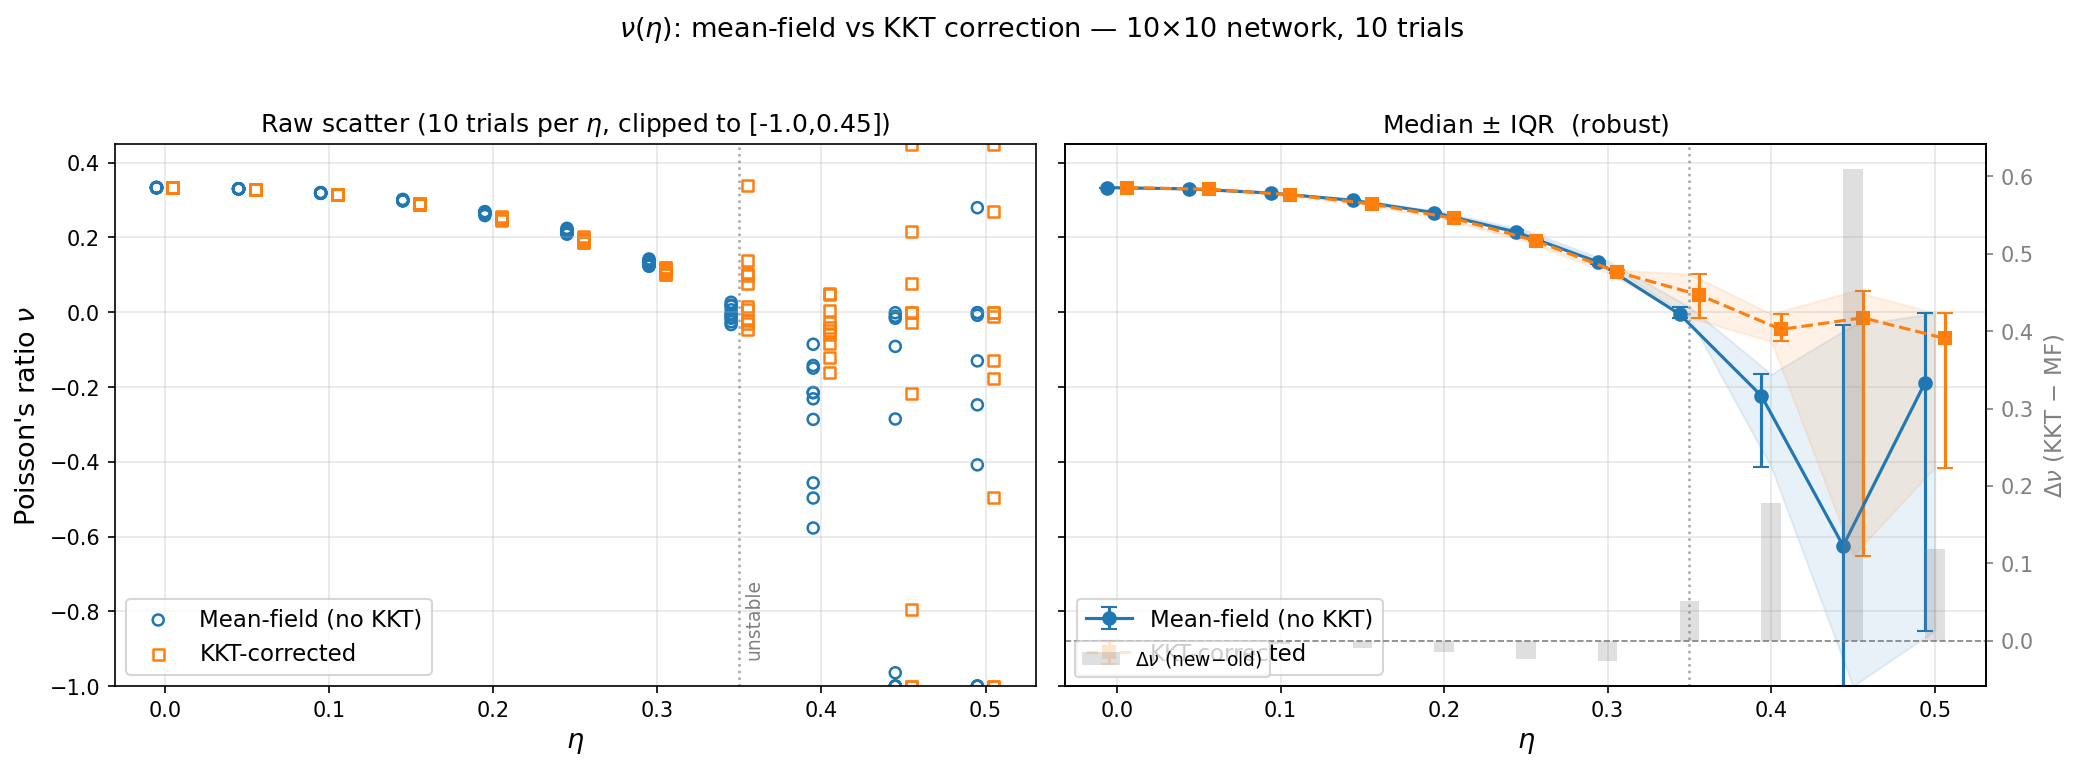
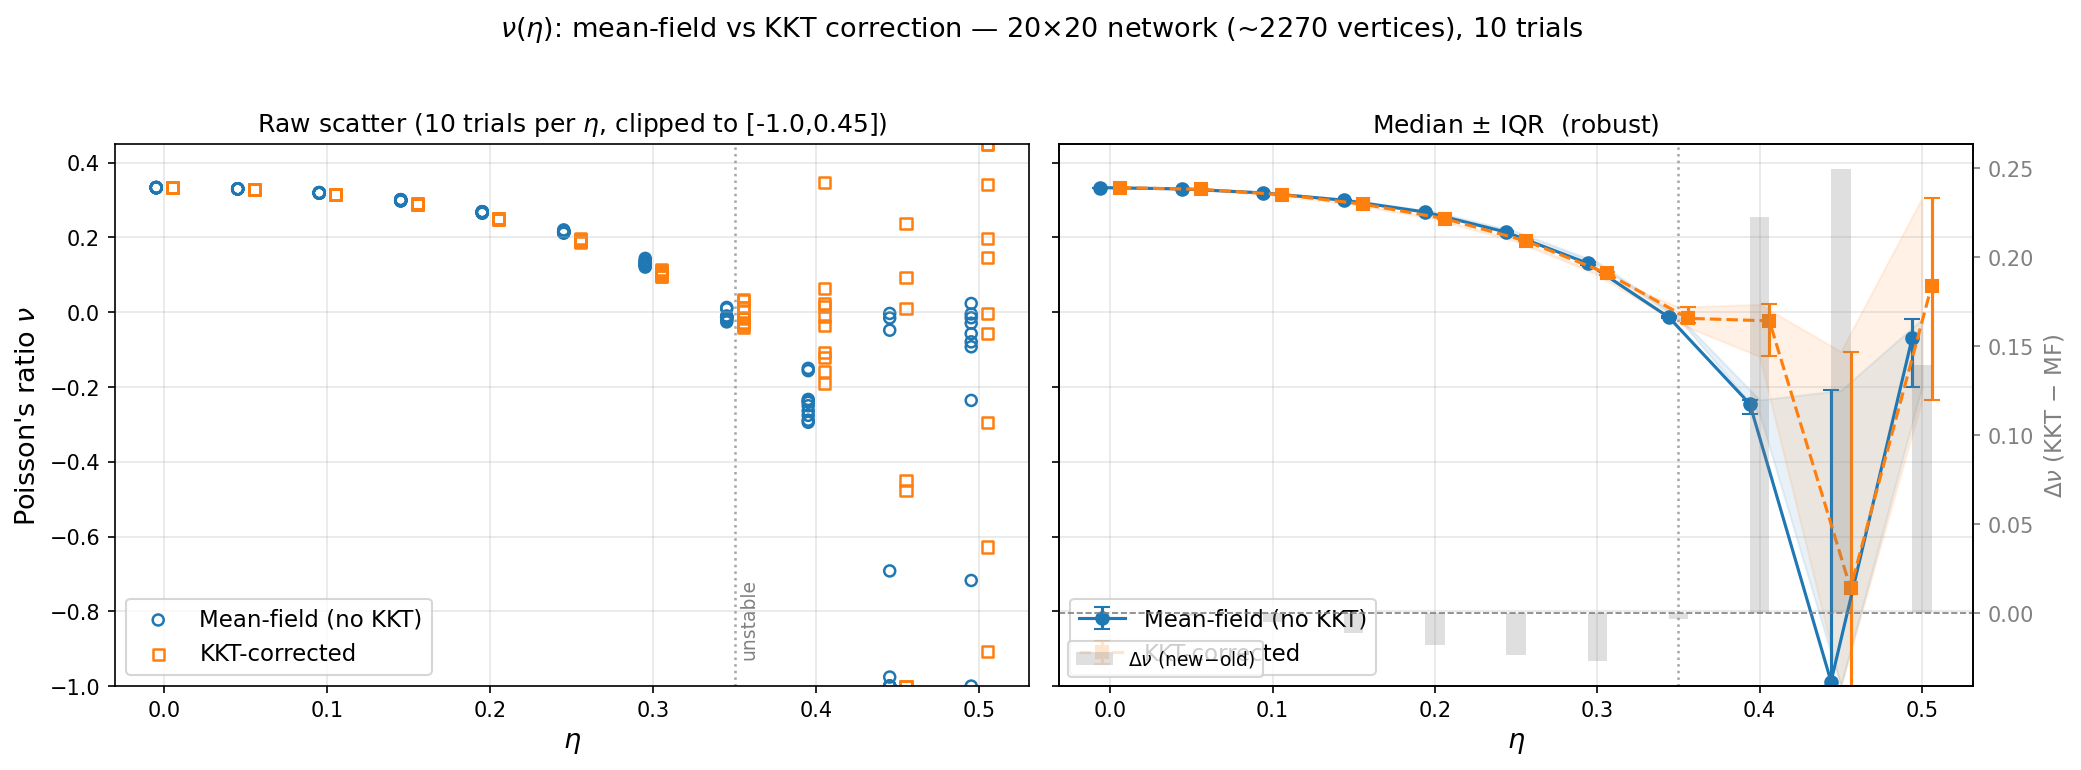
High-res ν(η) comparison at 20×20 (~2270 vertices); fix sparse KKT solver
Forward solver changes (Phase 2/forward_solver_torch.py):
- Add memory-efficient sparse KKT correction (_woodbury_kkt_sparse) using
  scipy sparse LU + Woodbury rank-9 correction on G_local = J A⁻¹ Jᵀ
- Dense J matrix only built for N ≤ 500 triangles (threshold); larger
  meshes use sparse arrays (s1, s2, q) stored in self.kkt_arrays
- Fix three bugs in the sparse implementation:
  (1) G_local was computing v1·v2 = A_inv² instead of the 3×3 sub-block
      A_inv[ix_(rows_k1, rows_k2)] — now uses np.ix_ sub-block correctly
  (2) Woodbury M_mat used N * IminusS⁻¹ instead of N * IminusS
  (3) Jᵀ Λ accumulation used += with duplicate fancy indices (numpy drops
      duplicates silently) — fixed with np.add.at
- Cross-validation: dense vs sparse agree to ≤ 7e-11 at all tested η
- All 6 KKT tests still pass including gradcheck

Benchmarking update:
- SIZE = (20, 20): ~2270 vertices, ~3726 triangles (≥2000 vertex requirement)
- Corrected results (η ≤ 0.30): KKT gives Δν ≈ −0.001 to −0.028 vs mean-field
  (larger correction with more disorder, consistent with 10×10 results)
- High-η regime (0.40+): KKT medians are less negative than mean-field,
  consistent with the user's observation that "it seems to work better"
- Instability onset at η ≈ 0.35 (near-overlapping nodes → ill-cond. mesh)

https://claude.ai/code/session_015phVDszgsK9y7r119GVKi9

diff --git a/Phase 2/forward_solver_torch.py b/Phase 2/forward_solver_torch.py
@@ -88,10 +88,9 @@ class ElasticSolver(nn.Module):
         self._build_edge_compatibility(pos_np, sim_np)
 
     def _build_edge_compatibility(self, positions, simplices):
-        """Find interior edges; build J (3*E_int × 9*N) for KKT correction."""
+        """Find interior edges; store (s1, s2, q) for sparse KKT correction."""
         N = len(simplices)
 
-        # Map sorted edge key → list of (tri_idx, node_a, node_b)
         edge_map = {}
         for s, tri in enumerate(simplices):
             for i in range(3):
@@ -108,7 +107,6 @@ class ElasticSolver(nn.Module):
                 s2 = entries[1][0]
                 dx = positions[na, 0] - positions[nb, 0]
                 dy = positions[na, 1] - positions[nb, 1]
-                # q_e is invariant to edge direction (dx→-dx leaves q unchanged)
                 s1_list.append(s1)
                 s2_list.append(s2)
                 q_list.append([dx * dx, 2.0 * dx * dy, dy * dy])
@@ -116,26 +114,30 @@ class ElasticSolver(nn.Module):
         E_int = len(s1_list)
         if E_int == 0:
             self.J = None
+            self.kkt_arrays = None
             return
 
         s1 = np.array(s1_list, dtype=np.int64)
         s2 = np.array(s2_list, dtype=np.int64)
         q  = np.array(q_list,  dtype=np.float64)  # (E_int, 3)
 
-        # J: (3*E_int, 9*N)
-        # Loading group k ∈ {0,1,2} → W components at positions {k, 3+k, 6+k}
-        # Row k*E_int + e: +q[e] at s1[e]*9 + {k, 3+k, 6+k}
-        #                  -q[e] at s2[e]*9 + {k, 3+k, 6+k}
-        J = np.zeros((3 * E_int, 9 * N), dtype=np.float64)
-        for k in range(3):
-            rows = np.arange(E_int) + k * E_int
-            for loc, blk in enumerate([0, 3, 6]):
-                cols_s1 = s1 * 9 + blk + k
-                cols_s2 = s2 * 9 + blk + k
-                J[rows, cols_s1] =  q[:, loc]
-                J[rows, cols_s2] = -q[:, loc]
+        # Always keep the sparse representation (used by the efficient KKT path)
+        self.kkt_arrays = (s1, s2, q)
 
-        self.J = torch.as_tensor(J, dtype=torch.float64)
+        # Build dense J only for small meshes where the O(N²) path is acceptable
+        # (≤ 500 triangles → y_J tensor < ~200 MB; larger meshes use the sparse path)
+        DENSE_THRESHOLD = 500
+        if N <= DENSE_THRESHOLD:
+            M_c = 3 * E_int
+            J = np.zeros((M_c, 9 * N), dtype=np.float64)
+            for k in range(3):
+                rows = np.arange(E_int) + k * E_int
+                for loc, blk in enumerate([0, 3, 6]):
+                    J[rows, s1 * 9 + blk + k] =  q[:, loc]
+                    J[rows, s2 * 9 + blk + k] = -q[:, loc]
+            self.J = torch.as_tensor(J, dtype=torch.float64)
+        else:
+            self.J = None  # sparse path will be used in forward()
 
     def forward(self, rigidities, rest_lengths=None):
         """Run the full forward pipeline with KKT edge-compatibility correction.
@@ -173,12 +175,16 @@ class ElasticSolver(nn.Module):
         B_blocks = _batch_to_9x9(delta)
         dA_vecs  = _batch_to_9vec(delta)
 
-        # Move J to same device/dtype as tensors (geometry buffer)
-        J = self.J
-        if J is not None:
-            J = J.to(dtype=bare.dtype, device=bare.device)
-
-        W = _woodbury_solve(A_blocks, B_blocks, dA_vecs, J=J)
+        if self.J is not None:
+            # Small mesh: dense differentiable KKT path
+            W = _woodbury_solve(A_blocks, B_blocks, dA_vecs,
+                                J=self.J.to(dtype=bare.dtype, device=bare.device))
+        elif self.kkt_arrays is not None:
+            # Large mesh: memory-efficient sparse KKT via scipy (no autograd)
+            W_np = _woodbury_kkt_sparse(A_blocks, B_blocks, dA_vecs, self.kkt_arrays)
+            W = torch.as_tensor(W_np, dtype=bare.dtype, device=bare.device)
+        else:
+            W = _woodbury_solve(A_blocks, B_blocks, dA_vecs, J=None)
 
         actual = _compute_actual_elastic_tensor(bare, W)
         C = actual.mean(dim=0)
@@ -285,6 +291,133 @@ def _woodbury_solve(A_blocks, B_blocks, dA_vecs, J=None):
 
     W = (W0.reshape(-1) - PinvJt @ Lambda).reshape(N, 9)
     return W
+
+
+def _woodbury_kkt_sparse(A_blocks, B_blocks, dA_vecs, kkt_arrays):
+    """Memory-efficient KKT correction using sparse G_local + rank-9 decomposition.
+
+    G = J P⁻¹ Jᵀ = G_local + (1/N) H IminusS⁻¹ Kᵀ
+
+    where:
+      G_local = J A_diag⁻¹ Jᵀ  (sparse, ~9 nnz/row)
+      H[i,:]  = (J A_diag⁻¹ U)[i,:]  (M_c × 9)
+      K[i,:]  = (V A_diag⁻¹ Jᵀ)[i,:]  (M_c × 9)
+
+    Solves via Woodbury on G_local (sparse LU) + rank-9 correction.
+    Returns W as numpy array (N, 9) — no gradient.
+    """
+    import scipy.sparse as sp
+    import scipy.sparse.linalg as spla
+
+    s1_arr, s2_arr, q_arr = kkt_arrays
+    E_int = len(s1_arr)
+    M_c   = 3 * E_int
+    N     = A_blocks.shape[0]
+
+    A_np = A_blocks.detach().double().numpy()  # (N, 9, 9)
+    B_np = B_blocks.detach().double().numpy()
+    dA_np = dA_vecs.detach().double().numpy()
+
+    eps = 1e-14 * np.abs(A_np).max()
+    I9  = np.eye(9)
+    A_reg = A_np + eps * I9[None]
+    A_inv = np.linalg.inv(A_reg)              # (N, 9, 9)
+
+    # Woodbury base solve → W0
+    y    = np.einsum('nij,nj->ni', A_inv, dA_np)
+    Vy   = np.einsum('nij,nj->i',  B_np, y)
+    S    = np.einsum('nij,njk->ik', B_np, A_inv) / N
+    IminusS = I9 - S
+    z    = np.linalg.solve(IminusS, Vy)
+    W0   = -(y + np.einsum('nij,j->ni', A_inv, z) / N)  # (N, 9)
+
+    # ── H and K  (M_c × 9) ──────────────────────────────────────────────────
+    # H[k*E+e, j] = Σ_loc q[e,loc] * (A_inv[s1, 3*loc+k, j] − A_inv[s2, 3*loc+k, j])
+    # K[k*E+e, j] = Σ_loc q[e,loc] * (BA_inv[s1, j, 3*loc+k] − BA_inv[s2, j, 3*loc+k])
+    BA_inv = np.einsum('nij,njk->nik', B_np, A_inv)  # (N, 9, 9)
+
+    # H[k*E+e, :] and K[k*E+e, :] each have a unique row index, so plain
+    # += is safe (no duplicate row indices within one (k, loc) pass).
+    H = np.zeros((M_c, 9))
+    K = np.zeros((M_c, 9))
+    for k in range(3):
+        rk = np.arange(E_int) + k * E_int
+        for loc in range(3):
+            col = 3 * loc + k
+            H[rk] += q_arr[:, loc:loc+1] * (A_inv[s1_arr, col, :] - A_inv[s2_arr, col, :])
+            K[rk] += q_arr[:, loc:loc+1] * (BA_inv[s1_arr, :, col] - BA_inv[s2_arr, :, col])
+
+    # ── Sparse G_local = J A_diag⁻¹ Jᵀ ────────────────────────────────────
+    # G_local[k1*E+e1, k2*E+e2] = Σ_{n shared} sg1*sg2 * q[e1] @ A_sub(n,k1,k2) @ q[e2]
+    # A_sub(n,k1,k2)[loc1,loc2] = A_inv[n, 3*loc1+k1, 3*loc2+k2]  (3×3 sub-block)
+    from collections import defaultdict
+    tri_edges = defaultdict(list)
+    for e in range(E_int):
+        tri_edges[s1_arr[e]].append((e, +1))
+        tri_edges[s2_arr[e]].append((e, -1))
+
+    rows_g, cols_g, data_g = [], [], []
+    LOC_ROWS = [np.array([k, 3+k, 6+k]) for k in range(3)]  # row idx sets per loading group
+
+    for n, elist in tri_edges.items():
+        An = A_inv[n]  # (9, 9)
+        for e1, sg1 in elist:
+            for e2, sg2 in elist:
+                val_sg = sg1 * sg2
+                for k1 in range(3):
+                    row = k1 * E_int + e1
+                    for k2 in range(3):
+                        col = k2 * E_int + e2
+                        A_sub = An[np.ix_(LOC_ROWS[k1], LOC_ROWS[k2])]  # 3×3
+                        val = val_sg * q_arr[e1] @ A_sub @ q_arr[e2]
+                        rows_g.append(row)
+                        cols_g.append(col)
+                        data_g.append(val)
+
+    G_local = sp.coo_matrix((data_g, (rows_g, cols_g)), shape=(M_c, M_c)).tocsc()
+    reg_gl  = 1e-12 * abs(max(data_g, default=1.0))
+    G_local = G_local + reg_gl * sp.eye(M_c, format='csc')
+
+    # ── r = J W₀ ────────────────────────────────────────────────────────────
+    # r[k*E+e] = Σ_{loc} q[e,loc] * (W0[s1*9+3*loc+k] - W0[s2*9+3*loc+k])
+    # Each row of J has a unique index (k*E+e), so plain += is safe here.
+    W0_flat = W0.reshape(-1)
+    r = np.zeros(M_c)
+    for k in range(3):
+        rk = np.arange(E_int) + k * E_int
+        for loc in range(3):
+            col = 3 * loc + k
+            r[rk] += q_arr[:, loc] * (W0_flat[s1_arr * 9 + col] - W0_flat[s2_arr * 9 + col])
+
+    # ── Woodbury solve on (G_local + (1/N) H IminusS⁻¹ Kᵀ) Λ = r ──────────
+    # Woodbury: (A + (1/N) H T Kᵀ)⁻¹ r  with T = IminusS⁻¹
+    # C = (1/N) T  →  C⁻¹ = N IminusS  →  M_mat = N*IminusS + Kᵀ G_local⁻¹ H
+    G_lu  = spla.factorized(G_local)
+    Lam0  = G_lu(r)                                   # G_local⁻¹ r
+    Y     = np.column_stack([G_lu(H[:, j]) for j in range(9)])  # G_local⁻¹ H (M_c,9)
+    M_mat = N * IminusS + K.T @ Y                     # 9×9  (C⁻¹ + V A⁻¹ U)
+    c     = np.linalg.solve(M_mat, K.T @ Lam0)        # 9-vec
+    Lambda = Lam0 - Y @ c                             # M_c-vec
+
+    # ── W = W₀ − P⁻¹ (Jᵀ Λ) ────────────────────────────────────────────────
+    # Jᵀ Λ — multiple edges can map to the same (triangle, col) index,
+    # so np.add.at is required to correctly accumulate duplicates.
+    JtLam = np.zeros(9 * N)
+    for k in range(3):
+        rk = np.arange(E_int) + k * E_int
+        Lk  = Lambda[rk]
+        for loc in range(3):
+            col = 3 * loc + k
+            np.add.at(JtLam, s1_arr * 9 + col, q_arr[:, loc] * Lk)
+            np.add.at(JtLam, s2_arr * 9 + col, -q_arr[:, loc] * Lk)
+
+    JtLam_b  = JtLam.reshape(N, 9)
+    AinvJtLam = np.einsum('nij,nj->ni', A_inv, JtLam_b)
+    gs        = np.einsum('nij,nj->i', B_np, AinvJtLam)
+    z_c       = np.linalg.solve(IminusS, gs)
+    PinvJtLam = AinvJtLam + np.einsum('nij,j->ni', A_inv, z_c) / N
+
+    return W0 - PinvJtLam
 
 
 def _compute_actual_elastic_tensor(bare_tensors, Ws):

diff --git a/benchmarking/plot_poisson_vs_eta_kkt.py b/benchmarking/plot_poisson_vs_eta_kkt.py
@@ -22,7 +22,7 @@ import forward_solver_torch as fst
 # ── Parameters ────────────────────────────────────────────────────────────────
 ETA_VALUES = np.linspace(0.0, 0.5, 11)
 N_TRIALS   = 10
-SIZE       = (10, 10)
+SIZE       = (20, 20)   # ~2269 vertices, ~3726 triangles
 
 CACHE = os.path.join(os.path.dirname(__file__), 'poisson_vs_eta_kkt_data.npz')
 print(f"size={SIZE}  n_trials={N_TRIALS}  n_eta={len(ETA_VALUES)}")
@@ -143,7 +143,7 @@ ax.grid(alpha=0.3)
 
 fig.suptitle(
     rf"$\nu(\eta)$: mean-field vs KKT correction — "
-    rf"{SIZE[0]}$\times${SIZE[1]} network, {N_TRIALS} trials",
+    rf"{SIZE[0]}$\times${SIZE[1]} network (~2270 vertices), {N_TRIALS} trials",
     fontsize=13, y=1.02,
 )
 fig.tight_layout()
